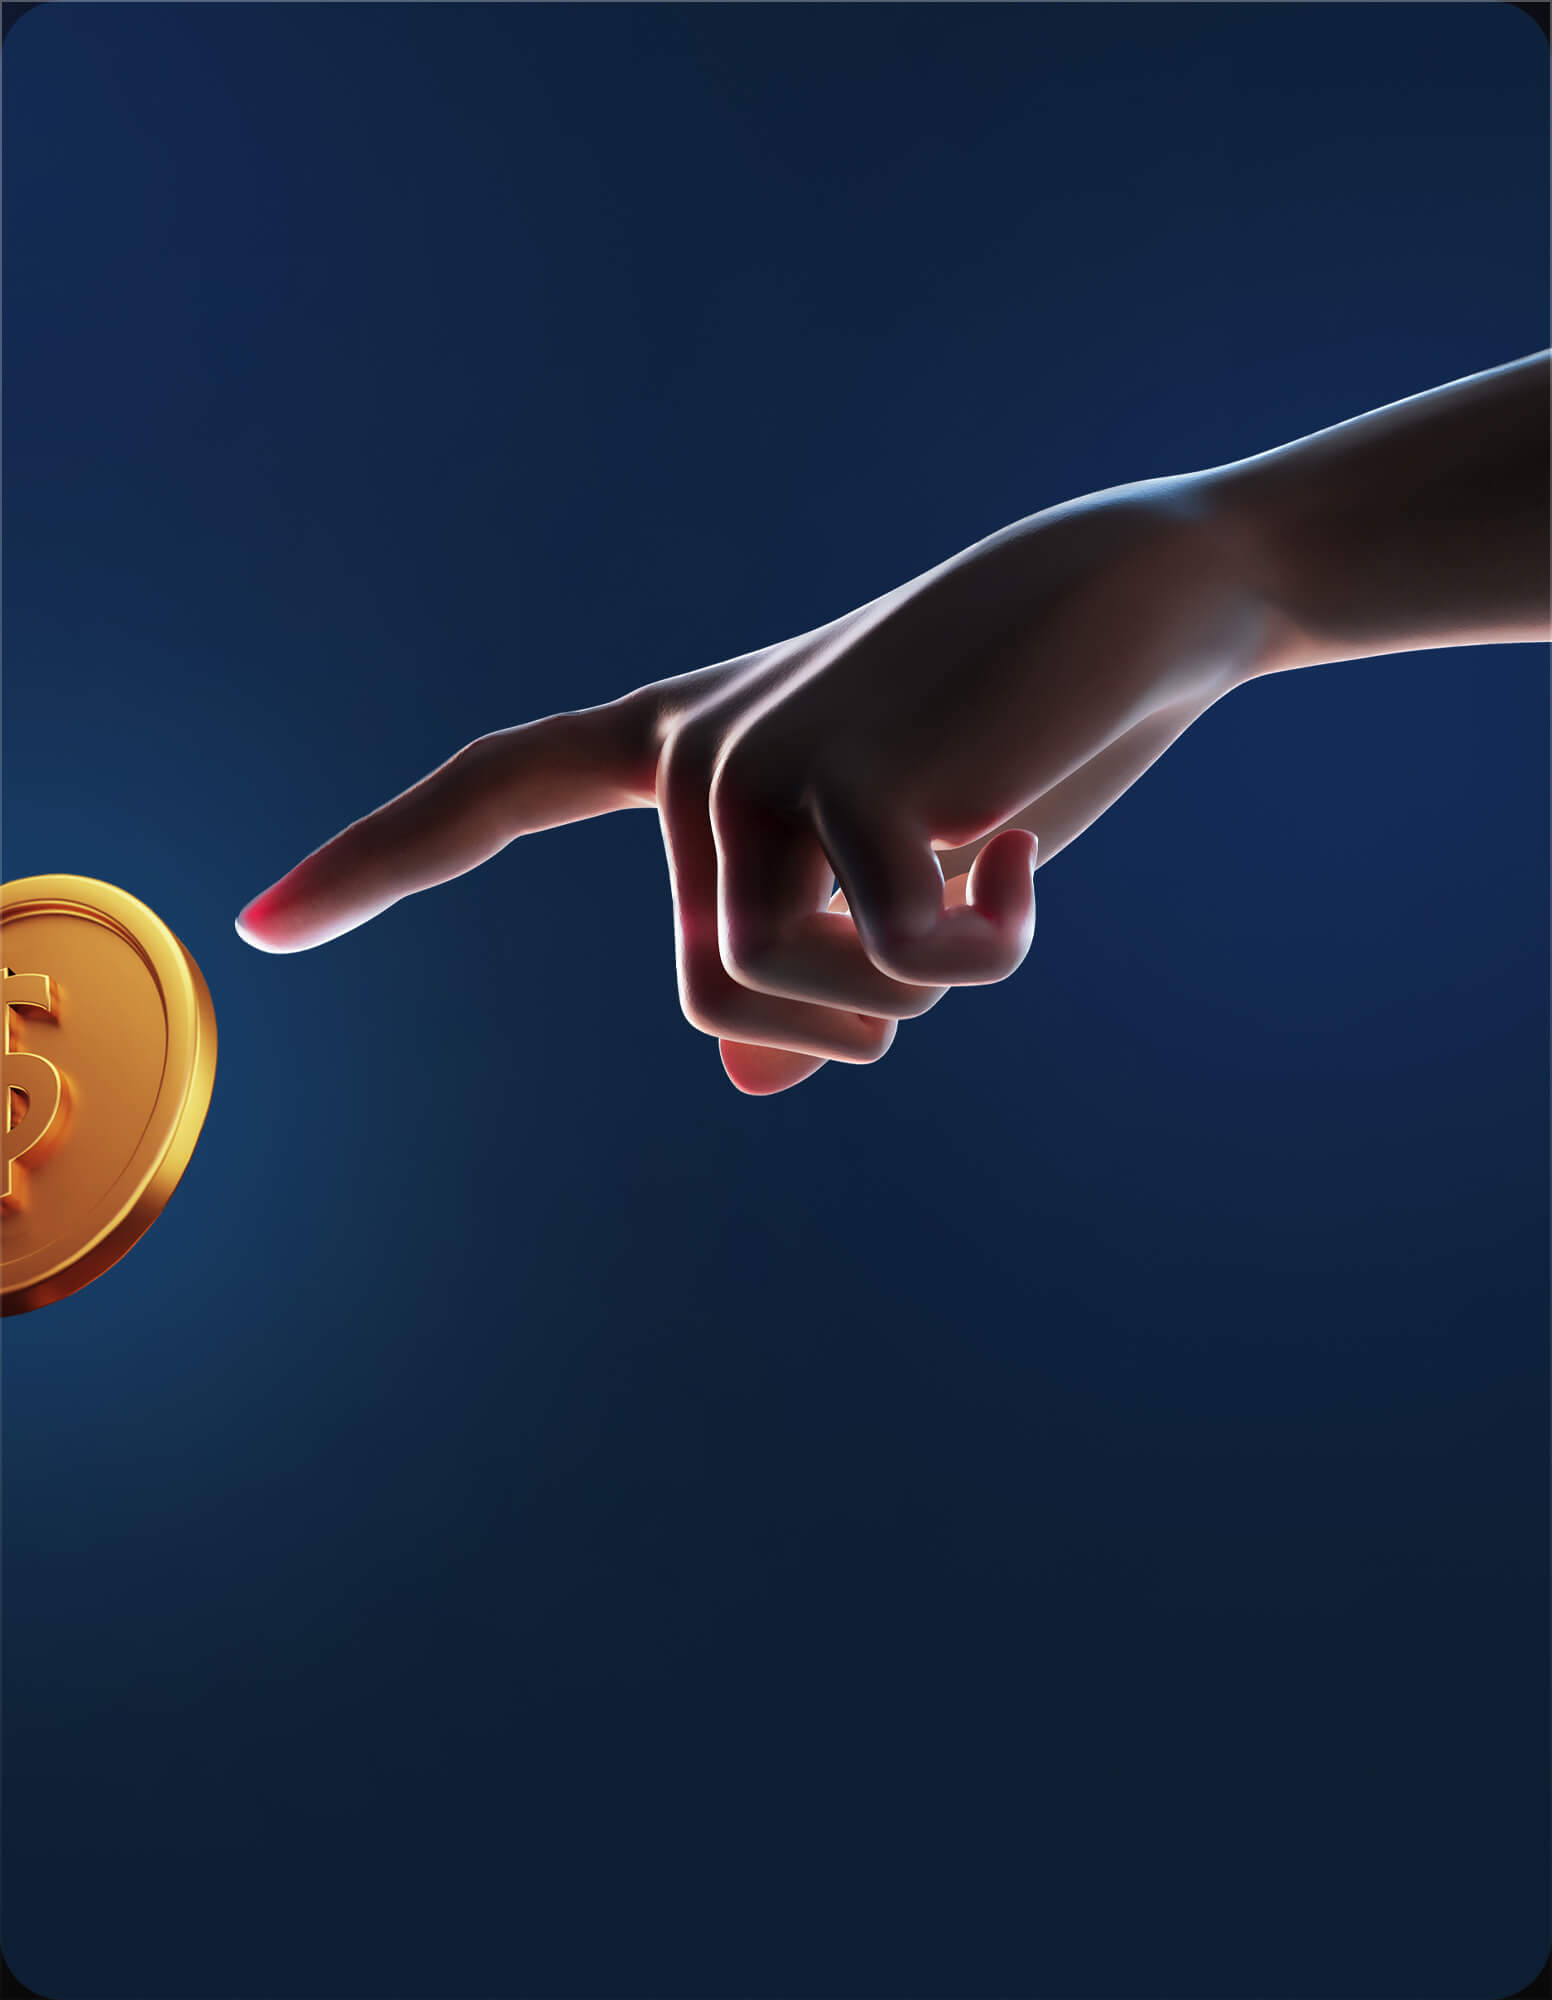
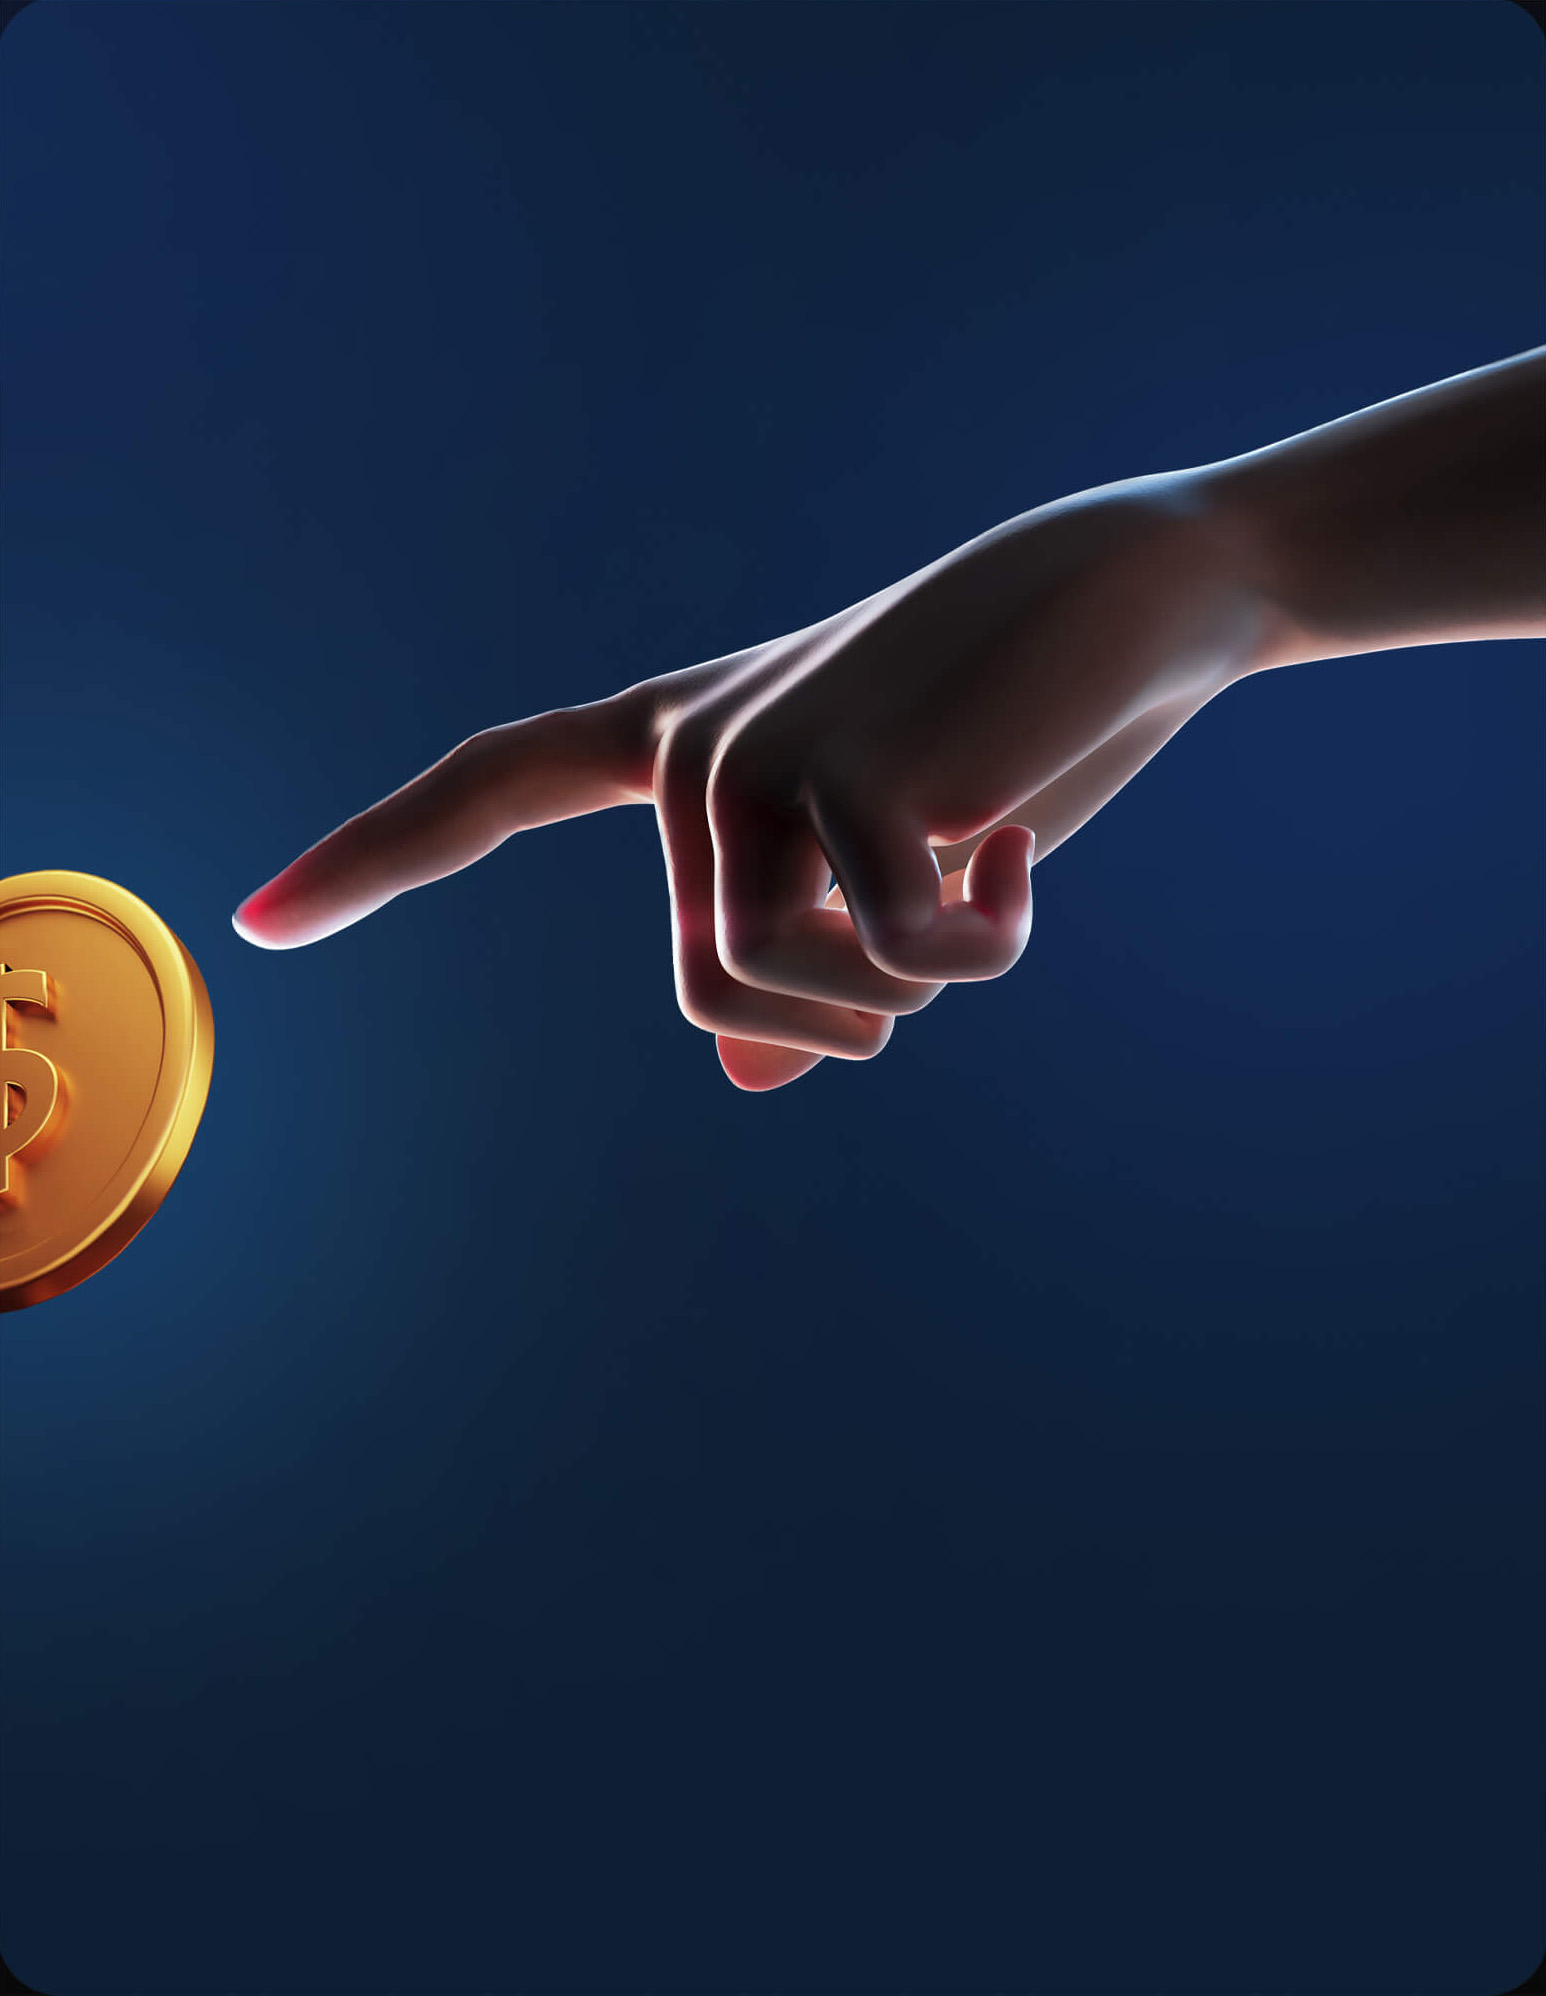
Fixes done

diff --git a/ru/index.html b/ru/index.html
@@ -9,7 +9,7 @@
     <!-- OpenGraph Meta Tags -->
     <meta
       property="og:title"
-      content="WhatMoney | Начните продавать мгновенно"
+      content="WhatMoney | Начните обменивать мгновенно"
     />
     <meta
       property="og:description"
@@ -21,13 +21,13 @@
     />
     <meta property="og:type" content="website" />
 
-    <title>WhatMoney | Начните продавать мгновенно</title>
+    <title>WhatMoney | Начните обменивать мгновенно</title>
 
     <!-- Twitter Meta Tags -->
     <meta name="twitter:card" content="summary_large_image" />
     <meta
       name="twitter:title"
-      content="WhatMoney | Начните продавать мгновенно"
+      content="WhatMoney | Начните обменивать мгновенно"
     />
     <meta
       name="twitter:description"
@@ -72,7 +72,7 @@
       <div class="flex align-center">
         <div class="lang-selector">
           <div class="selected">
-            EN
+            RU
             <img
               src="../public/media/icons/arrow-down.svg"
               alt="arrow down icon"
@@ -83,7 +83,7 @@
               <a href="../index.html">EN</a>
             </li>
             <li>
-              <a href="./ru/index.html">RU</a>
+              <a style="pointer-events: none" href="./ru/index.html">RU</a>
             </li>
           </ul>
         </div>
@@ -95,7 +95,7 @@
       <section class="banner-section">
         <div class="start-selling">
           <img src="../public/media/icons/dollar.svg" alt="dollar icon" />
-          НАЧНИТЕ ПРОДАВАТЬ МГНОВЕННО
+          Начните обменивать мгновенно
         </div>
         <h1>
           Мы не меняем деньги.<br />
@@ -154,7 +154,7 @@
         </div>
       </section>
 
-      <section class="animated-cards mb-70">
+      <section class="animated-cards ru mb-70">
         <div class="header">
           <h2>
             Позвольте своим деньгам <br />
@@ -249,7 +249,7 @@
           <div class="text-block">
             <h3>24/7 Безопасность</h3>
             <p>Мы активно следим и контролируем безопасность ваших денег</p>
-            <button class="button">Начать</button>
+            <button class="button min-width">Начать</button>
           </div>
         </div>
       </section>
@@ -471,8 +471,8 @@
 
             <span class="scalable-element">
               <div class="text-box">
-                <h2>Будующее наступило</h2>
-                <button class="button">Начать</button>
+                <h2>Будущее наступило</h2>
+                <button class="button min-width">Начать</button>
               </div>
             </span>
 

diff --git a/styles/style.css b/styles/style.css
@@ -145,7 +145,7 @@
     }
 
     .header {
-      font-size: var(--font-size-36);
+      font-size: var(--font-size-30);
       margin-bottom: var(--spacing-64);
       font-weight: 400;
       line-height: 120%;
@@ -316,11 +316,12 @@
   border-radius: var(--block-border-radius);
 
   .gsap-image {
-    height: calc(100vh - var(--header-height));
+    height: calc(97vh - var(--header-height));
     width: 50%;
     background-position: center;
     background-repeat: no-repeat;
     background-size: cover;
+    border-radius: var(--block-border-radius);
 
     &.robo {
       background-image: url("../public/media/images/robo.jpg");
@@ -380,6 +381,8 @@
 
     &.spiral {
       background-image: url("../public/media/images/spiral.jpg");
+      background-size: 110%;
+      background-position: center 27%;
       position: absolute;
       width: 100%;
       top: 0;
@@ -771,6 +774,16 @@
   }
 }
 
+.animated-cards.ru {
+  .cards-wrapper {
+    .card-item {
+      p {
+        font-size: var(--font-size-30);
+      }
+    }
+  }
+}
+
 /* floating animated cards block */
 .floating-animated-cards {
   overflow: hidden;
@@ -994,14 +1007,23 @@
       gap: var(--spacing-16);
 
       .card-item {
-        height: 13.89rem;
         border-radius: var(--block-border-radius);
         padding: var(--spacing-32) var(--spacing-50) 0 var(--spacing-24);
         width: 100%;
         background-size: 60%;
         background-position: 100% 120%;
-        height: 264px;
+        height: 300px;
 
+        p {
+          font-size: var(--font-size-24);
+        }
+      }
+    }
+  }
+
+  .animated-cards.ru {
+    .cards-wrapper {
+      .card-item {
         p {
           font-size: var(--font-size-24);
         }
@@ -1284,6 +1306,18 @@
     }
   }
 
+  .the-future-arrived.ru {
+    .content-block {
+      .scalable-element {
+        transform: scale(0.1) translate(0, 200%);
+      }
+
+      .text-move {
+        padding-left: 0;
+      }
+    }
+  }
+
   .gsap-container {
     display: none;
   }
@@ -1385,15 +1419,18 @@
       }
     }
   }
+}
 
-  .the-future-arrived.ru {
+/* just for last block */
+@media (min-width: 400px) {
+  .the-future-arrived {
     .content-block {
       .scalable-element {
-        transform: scale(0.1) translate(0, 200%);
+        transform: scale(0.1) translate(-65%, 60%);
       }
 
       .text-move {
-        padding-left: 0;
+        padding-left: 2rem;
       }
     }
   }

diff --git a/index.html b/index.html
@@ -19,6 +19,10 @@
     <meta property="og:type" content="website" />
 
     <title>WhatMoney | Start selling instantly</title>
+    <meta
+      name="description"
+      content="We don't change money. We change your lifestyle."
+    />
 
     <!-- Twitter Meta Tags -->
     <meta name="twitter:card" content="summary_large_image" />
@@ -74,7 +78,7 @@
           </div>
           <ul class="list">
             <li>
-              <a href="./index.html">EN</a>
+              <a style="pointer-events: none" href="./index.html">EN</a>
             </li>
             <li>
               <a href="./ru/index.html">RU</a>
@@ -151,7 +155,7 @@
       <section class="animated-cards mb-70">
         <div class="header">
           <h2>Make your money <br />work smarter for you</h2>
-          <button></button>
+          <button aria-label="Download button"></button>
         </div>
         <div class="cards-wrapper">
           <div class="card-item">

diff --git a/script.js b/script.js
@@ -147,7 +147,7 @@ $(() => {
   // Pin section with ID "pinned-section-2"
   ScrollTrigger.create({
     trigger: "#pinned-section-2",
-    start: "bottom bottom",
+    start: "bottom+=3% bottom",
     end: `+=${1.5 * document.querySelector("#pinned-section-2").offsetHeight}`,
     pin: true,
     toggleClass: {
@@ -317,4 +317,12 @@ $(() => {
   $(".tablinks").eq(0).addClass("active");
 
   $(".tablinks").on("click", openTab);
+
+  //Currency rate
+  //   async function getRate() {
+  //     const response = await fetch("http://example.com/movies.json");
+  //     const rateData = await response.json();
+  //     console.log(rateData);
+  //     return rateData;
+  //   }
 });

diff --git a/styles/variables.css b/styles/variables.css
@@ -31,6 +31,7 @@
   --spacing-22: 0.61rem; /* (22px) */
   --spacing-20: 0.56rem; /* (20px) */
   --spacing-18: 0.5rem; /* (18px) */
+  --spacing-16: 0.44rem; /* (16px) */
   --spacing-15: 0.42rem; /* (15px) */
   --spacing-13: 0.36rem; /* (13px) */
   --spacing-12: 0.33rem; /* (12px) */
@@ -48,6 +49,8 @@
   --font-size-52: 1.44rem; /* (52px) */
   --font-size-40: 1.11rem; /* (40px) */
   --font-size-36: 1rem;
+  --font-size-34: 0.94rem; /* (34px) */
+  --font-size-32: 0.89rem; /* (32px) */
   --font-size-30: 0.83rem; /* (30px) */
   --font-size-26: 0.72rem; /* (26px) */
   --font-size-24: 0.67rem; /* (24px) */

diff --git a/styles/components/footer.css b/styles/components/footer.css
@@ -28,9 +28,9 @@ footer {
 
         a {
           display: inline-flex;
+          width: 0.67rem;
 
           img {
-            width: 0.67rem;
             margin-bottom: 0;
           }
         }
@@ -66,9 +66,7 @@ footer {
           gap: var(--spacing-24);
 
           a {
-            img {
-              width: var(--spacing-18);
-            }
+            width: var(--spacing-18);
           }
         }
       }

diff --git a/styles/global.css b/styles/global.css
@@ -9,7 +9,7 @@ body {
 
 main {
   overflow: hidden;
-  padding-top: var(--header-height);
+  padding-top: calc(var(--header-height) + var(--spacing-25));
 }
 
 hr {
@@ -67,6 +67,10 @@ hr {
 @media (max-width: 480px) {
   body {
     padding-inline: 6px;
+  }
+
+  main {
+    padding-top: calc(var(--header-height) + var(--spacing-25));
   }
 
   .mb-120 {

diff --git a/styles/components/header.css b/styles/components/header.css
@@ -10,6 +10,7 @@ header {
   justify-content: space-between;
   align-items: center;
   padding: var(--spacing-15) var(--spacing-50);
+  box-shadow: 0 0 15px -4px rgba(0, 0, 0, 0.11);
 
   img {
     width: 4.92rem;

diff --git a/styles/components/buttons.css b/styles/components/buttons.css
@@ -15,6 +15,10 @@
     color: var(--text-title-black);
     border: 1px solid var(--text-title-black);
   }
+
+  &.min-width {
+    min-width: 6rem;
+  }
 }
 
 @media (max-width: 480px) {
